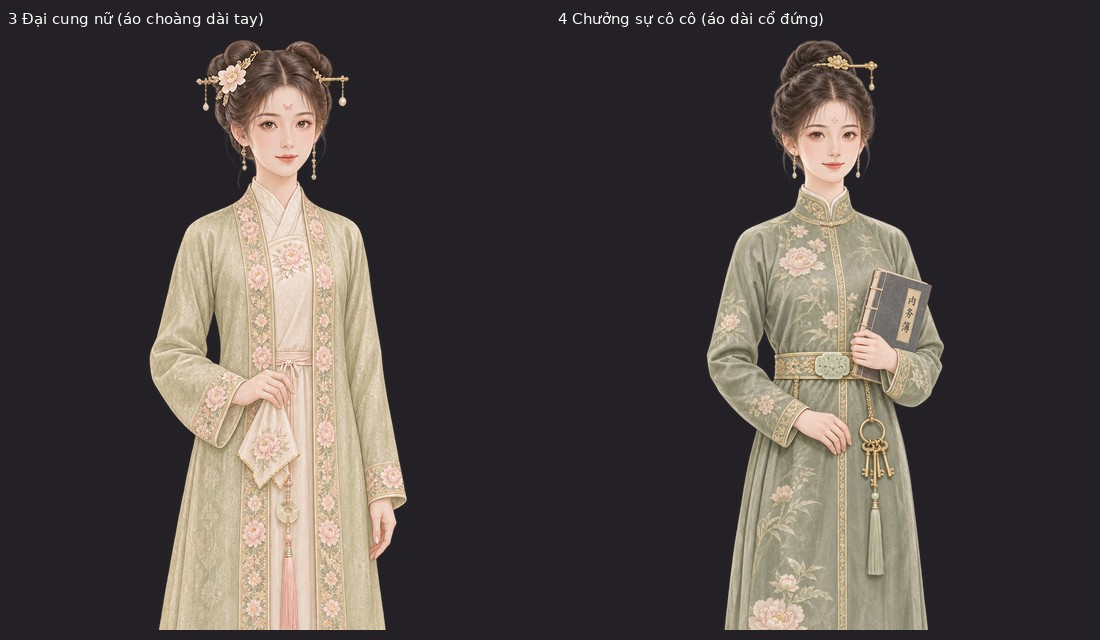
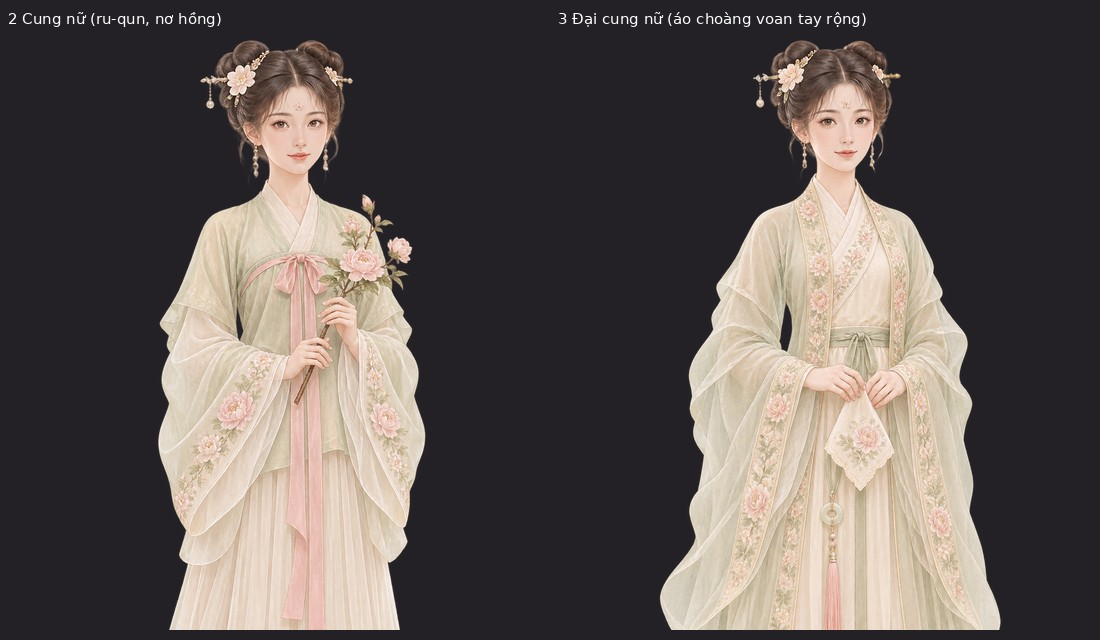
Maid rank standard v4: flowing Han-style all ranks
Claude-Session: https://claude.ai/code/session_011xDdVRfTXkRr1K97oJueiZ

diff --git a/dev/handover/reports/fig-cutout-clean/rank-standard/maid-markers.md b/dev/handover/reports/fig-cutout-clean/rank-standard/maid-markers.md
@@ -1,7 +1,7 @@
-# Maid m01 a18 rank standard v3 (owner: each rank a different garment; NO vest/gile on any rank). Ranks per SRK.maid in dev/build/all42.js. Identity ref = live fig-maid-m01-a18. Masters Magnific gpt-2-6 2k transparent (alpha 0..254), not on CDN.
-1. Thô sử (Ifi5rFxtvE): plain single-layer long cross-collar work robe, cloth belt, no embroidery, one small flower.
-2. Cung nữ (KLDO9wYkqp): SHORT hip-length long-sleeve jacket (ru) over long pleated cream skirt, pink chest ribbon, light hem embroidery, flower branch.
-3. Đại cung nữ (8a6brszIrU): knee-length long-sleeved open coat (bei-zi) in brocade with peony edge bands over cream inner + straight skirt, handkerchief, gold pin.
-4. Chưởng sự cô cô (P3uWMBQ42C): stand-collar long robe, full sleeves, wide jade-buckle official belt, brass key ring, ledger.
-5. Nữ quan (huZ1Lx5vqL): round-collar (yuanlingpao) robe with gold roundels, jade-plaque belt, black-and-gold official headpiece, scroll.
-Superseded: v1 fHGxdRDCDY CqzjXA2EEy SymR5tsUb8 mERKMZ9hJQ WDlI6SNcXe; v2 vest/short-sleeve SymZzR7Ub8 s78i2iml8e.
+# Maid m01 a18 rank standard v4 (owner: all ranks FLOWING Han-style, no stand collar/vest/narrow sleeves/cheongsam; rank = refinement, not bulk). Ranks per SRK.maid in dev/build/all42.js. Identity ref = live fig-maid-m01-a18. Masters Magnific gpt-2-6 2k transparent (alpha 0..254), not on CDN.
+1. Thô sử (79aGe57JAL): single opaque layer sage crossed-collar robe, soft medium sleeves, plain narrow sash, no embroidery, one small flower, folded cloth.
+2. Cung nữ (w4vADly7EI): ru-qun, light crossed-collar short jacket with airy wide sleeves over pleated cream skirt, pink chest ribbon, peony sleeve-edge embroidery, flower branch.
+3. Đại cung nữ (SymZVsaUb8): sheer long over-robe (daxiushan) with long wide soft sleeves, peony edge bands over cream inner robe and skirt, jade ring pendant, gold pin, handkerchief.
+4. Chưởng sự cô cô (WDltqNucXe): deeper matte grey-sage crossed-collar robe, soft wide sleeves, gold vine edge embroidery, jade belt + pendant, keys, ledger.
+5. Nữ quan (O6CnXxqynm): deep jade-green crossed-collar robe, gold roundel + wave embroidery, jade-plaque belt with long pendant, pearl necklace, light small official cap, scroll.
+Superseded: v1-v3 masters; v4 first try SymZVxmUb8 (rank1) TdUv50pVNR (rank4) 1lePG1nr4r (rank5).
